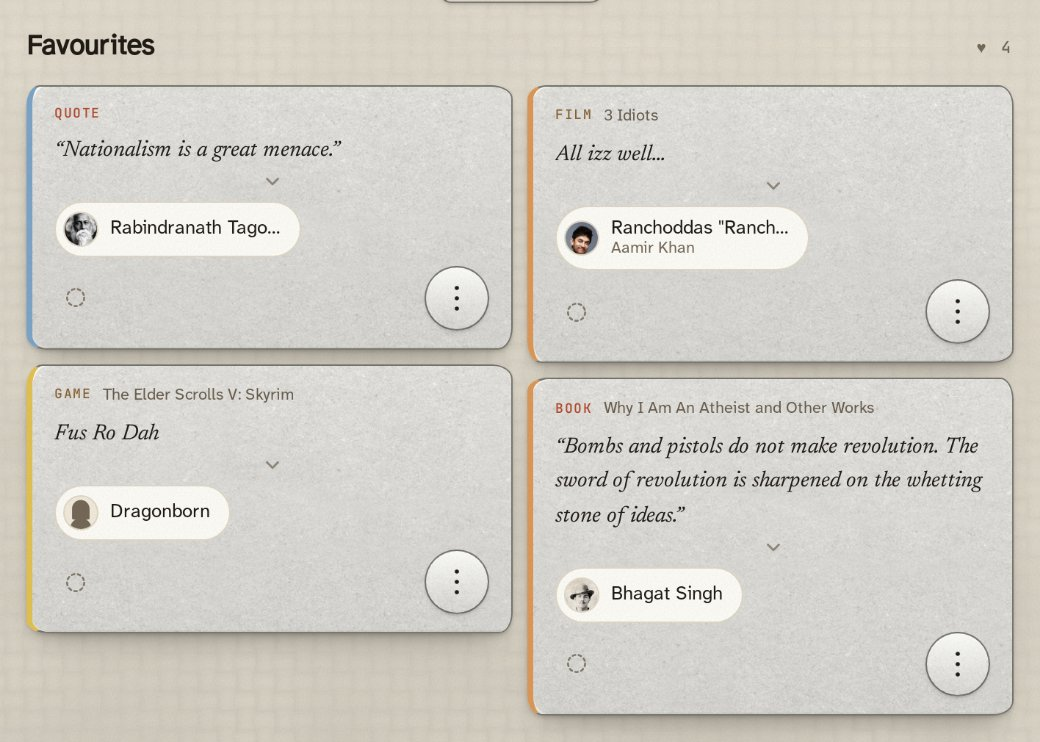
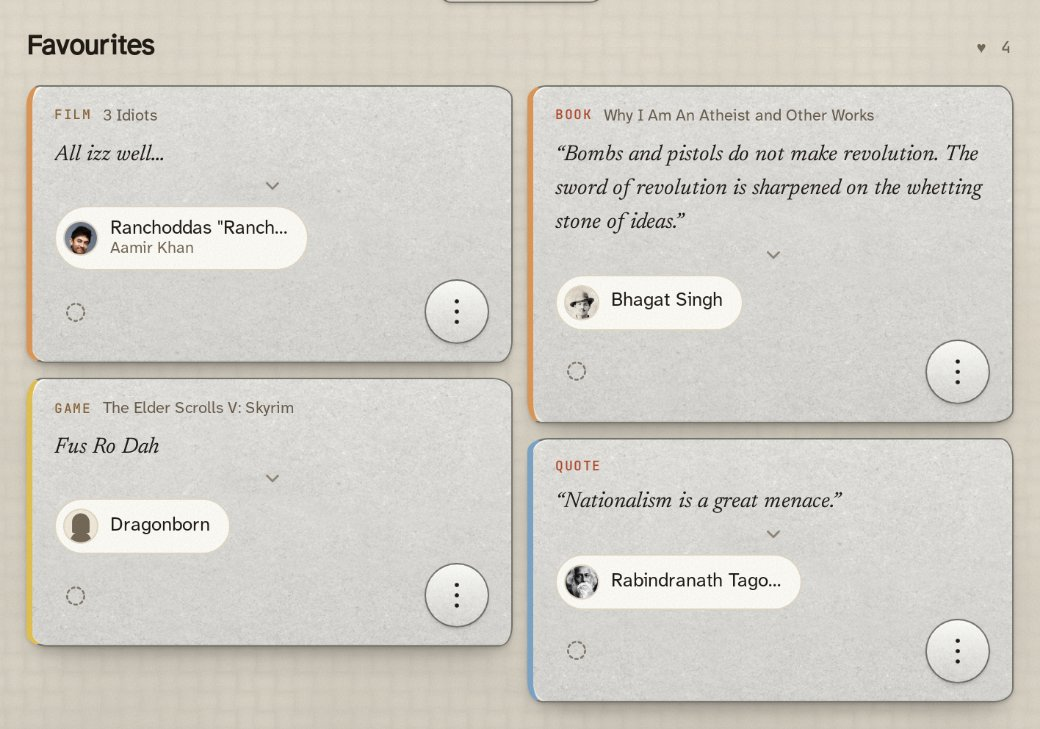
docs(readme): the share feature shows Bhagat Singh's card in dark, and the anthology only public-domain lines
The owner, of the share image: "Use a better quote for the image share (the
image there is very less contrasty)", then "use bhagat singh" and "That quote
matches the app theme". features/share.jpg is now the drawn card itself, in the
image's dark theme, with his portrait behind the text. The alt says so.

The two anthology images (features/anthology.jpg and the phone shot) no longer
show "The essence of religious feeling…", which is not Eva Martin's public-domain
text. The Dostoyevsky line in them is now "if one of us becomes an Atheist…",
which matches Gutenberg #2638 word for word.

All sixteen images were re-taken from a reset copy with readme-shots.mjs. Only
the share and anthology images change in content. The others differ by the
favourites' shuffled order and the time-of-day greeting.

diff --git a/README.md b/README.md
@@ -116,7 +116,7 @@
       behind it, and sends it to your phone's share sheet. Plain text, Markdown, WhatsApp and
       Reddit formats too.
     </td>
-    <td width="40%"><img src="docs/img/features/share.jpg" width="100%" alt="The Share dialog on its Image format, with the portrait set as the backdrop and a preview of the card"></td>
+    <td width="40%"><img src="docs/img/features/share.jpg" width="100%" alt="A quote by Bhagat Singh drawn as a picture in the dark theme, his portrait behind the text"></td>
   </tr>
 </table>
 
